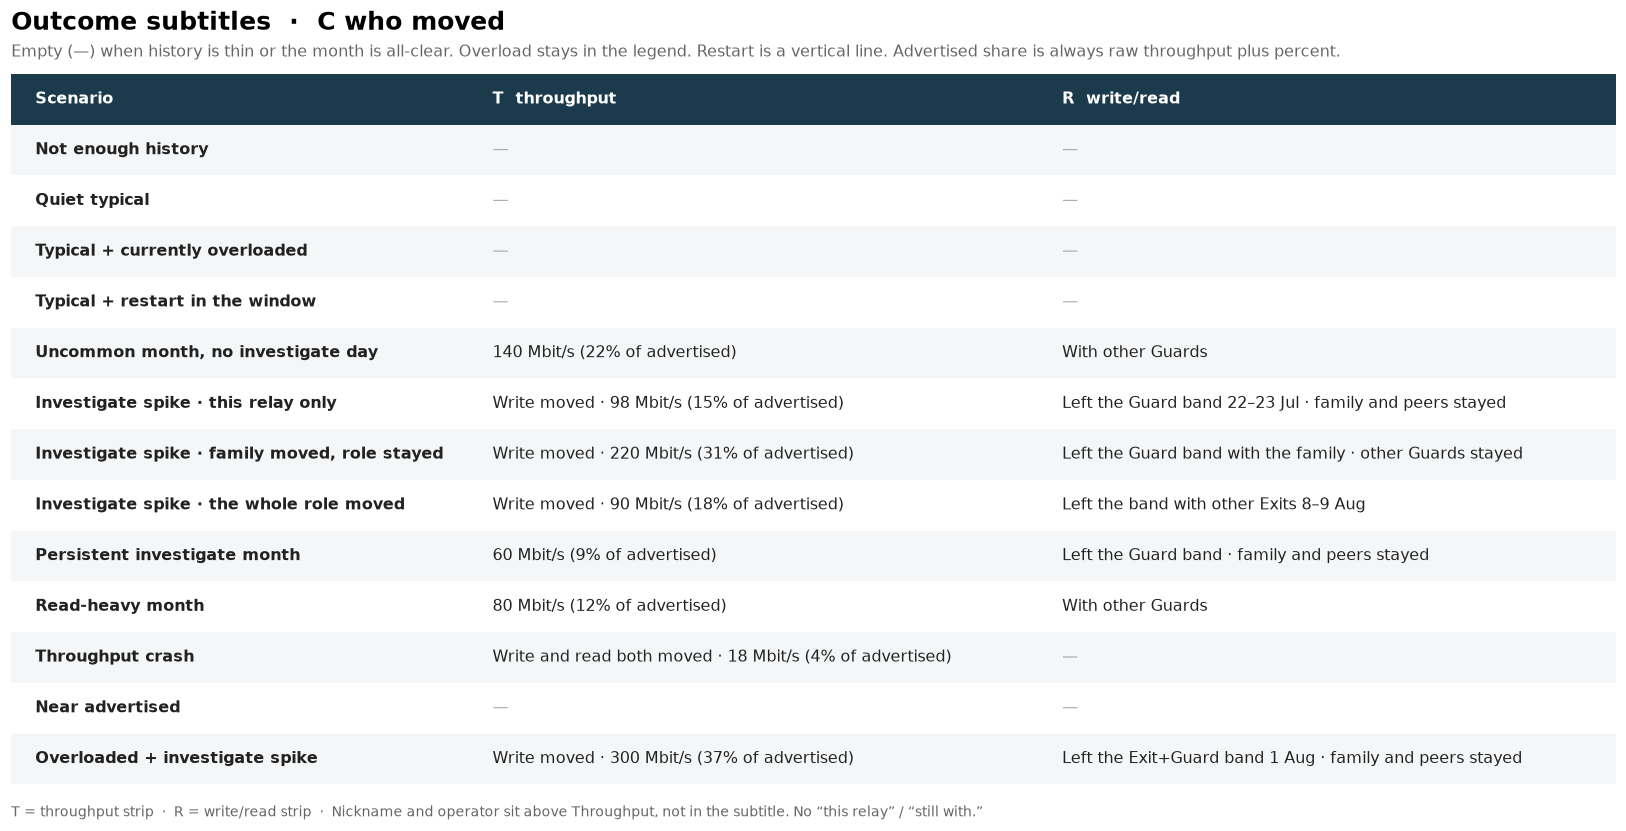
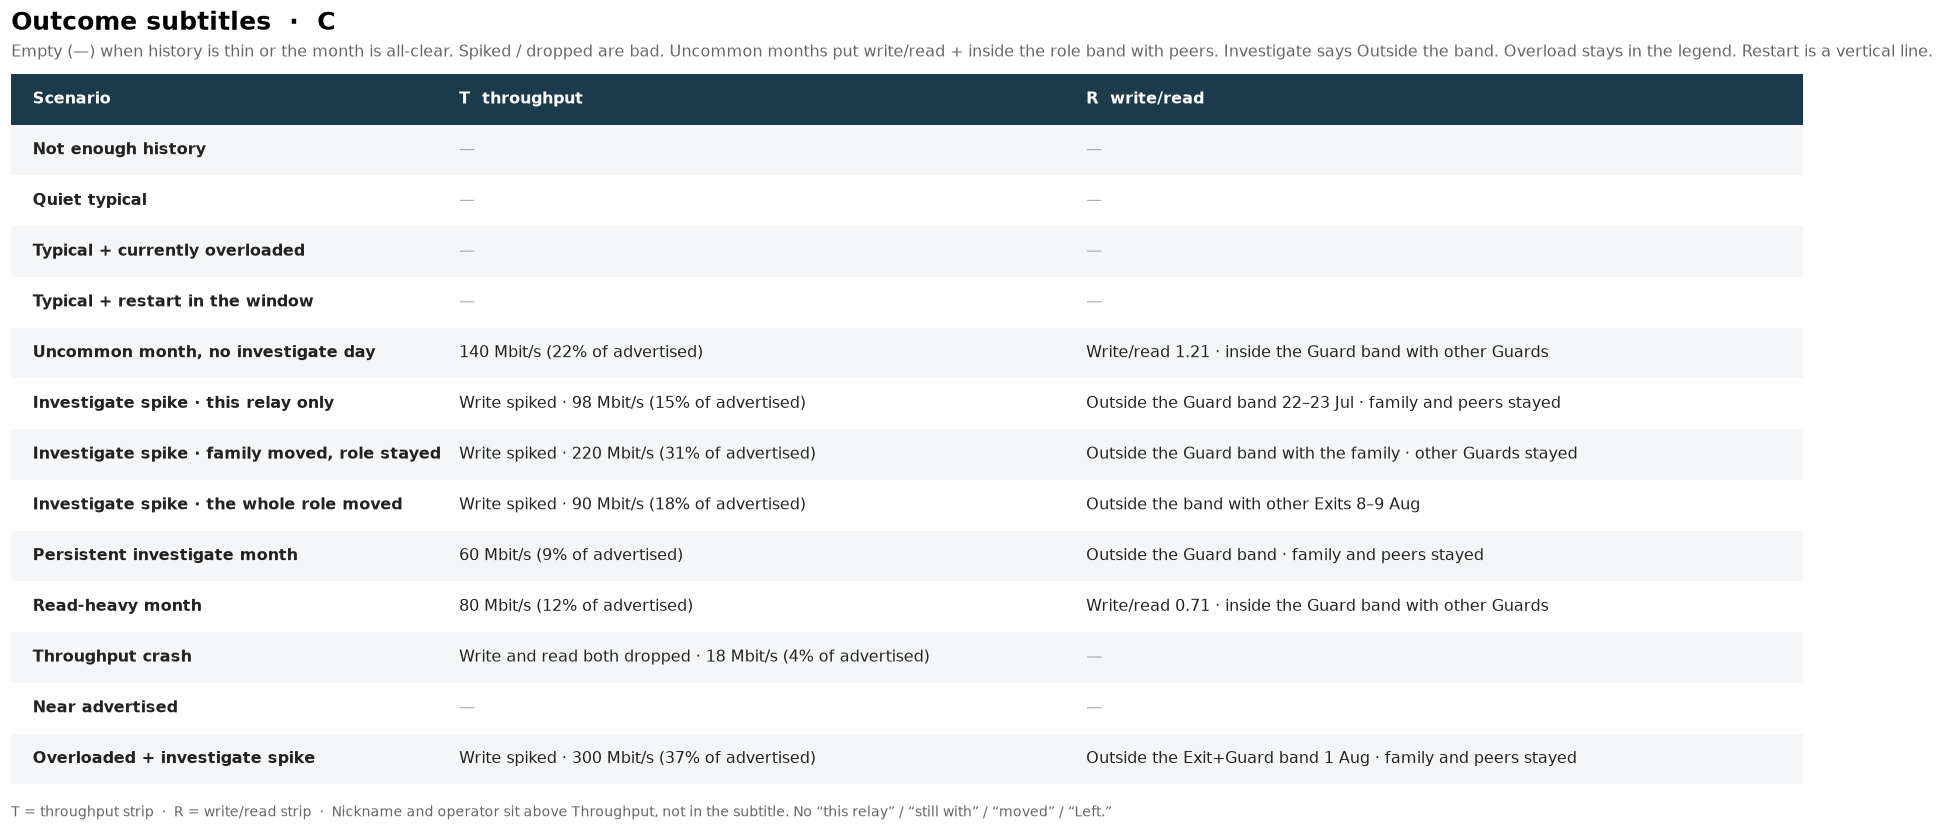
Refresh C outcome mockups with spiked, dropped, and outside-the-band copy
jeangrae now reads Write spiked plus raw Mbit/s, and Outside the Guard
band. The C table matches. F3 all-clear subtitles stay empty. Identity
stays above Throughput at 13 pt with a real gap.

diff --git a/docs/features/planned/charts/mockups/relay_page_bw_outcomes.html b/docs/features/planned/charts/mockups/relay_page_bw_outcomes.html
@@ -3,7 +3,7 @@
 <head>
   <meta charset="utf-8">
   <meta name="viewport" content="width=device-width, initial-scale=1">
-  <title>Outcome subtitles · C who moved</title>
+  <title>Outcome subtitles · C</title>
   <style>
 :root { --aeo-green:#00ff7f; --aeo-dark-surface:#1e1e1e; --aeo-text-muted:#ccc;
   --color-success:#28a745; --color-danger:#dc3545; --color-warning-text:#856404;
@@ -86,9 +86,14 @@ code { font-size:12px; background:#eee; padding:1px 4px; border-radius:3px; }
 </div></nav>
 <div class="container">
   <div class="option-banner recommend">
-    <strong>Locked: C — who moved</strong>
+    <strong>Locked: C</strong>
     Empty when history is thin or the month is all-clear (typical
-    write/read, no investigate day, no spike, no crash). Overload
+    write/read, no investigate day, no spike, no crash). A write spike
+    says <code>Write spiked</code> (bad / investigate). Both-fell says
+    <code>Write and read both dropped</code>. Investigate / off-band
+    says <code>Outside the Guard band</code>, not “Left.” Uncommon
+    months put the write/read value on the same line as
+    <code>inside the Guard band with other Guards</code>. Overload
     stays in the legend. Restart is a vertical line. Identity sits
     above Throughput at 13 pt bold:
     <code>jeangrae · 1aeo.com</code> then
@@ -107,17 +112,17 @@ code { font-size:12px; background:#eee; padding:1px 4px; border-radius:3px; }
   </div>
   
   <section class="section-box recommend">
-    <h4>jeangrae · C who moved</h4>
-    <p class="relay-meta">Write moved off the Guard band; family and peers stayed. Identity sits above Throughput: jeangrae · 1aeo.com. Throughput is raw plus percent of advertised.</p>
+    <h4>jeangrae · C</h4>
+    <p class="relay-meta">Write spiked. Outside the Guard band; family and peers stayed. Identity sits above Throughput: jeangrae · 1aeo.com. Throughput is raw plus percent of advertised.</p>
     <div class="chart-wrap">
-      <img src="relay_bandwidth_outcome_c_jeangrae.png" alt="jeangrae · C who moved">
+      <img src="relay_bandwidth_outcome_c_jeangrae.png" alt="jeangrae · C">
     </div>
   </section>
   <section class="section-box recommend">
-    <h4>F3Netze · C who moved</h4>
+    <h4>F3Netze · C</h4>
     <p class="relay-meta">All-clear month: typical write/read, no investigate day, no spike, no crash. Subtitles stay empty. Overload is the legend diamond. Identity sits above Throughput: F3Netze · f3netze.de.</p>
     <div class="chart-wrap">
-      <img src="relay_bandwidth_outcome_c_f3.png" alt="F3Netze · C who moved">
+      <img src="relay_bandwidth_outcome_c_f3.png" alt="F3Netze · C">
     </div>
   </section>
   <h3>Where the name sits</h3>
